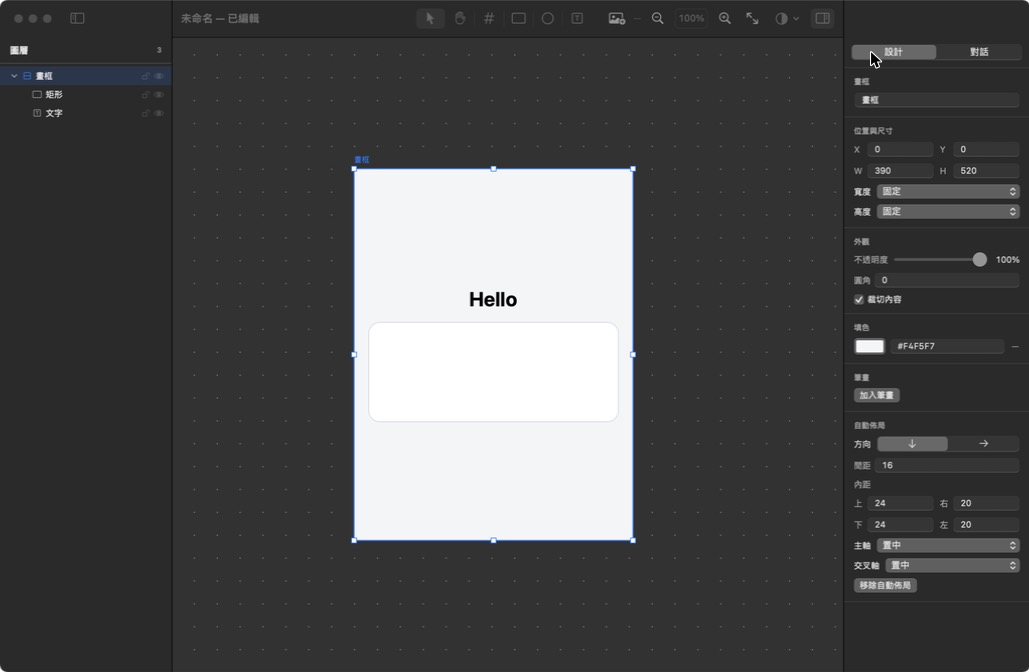
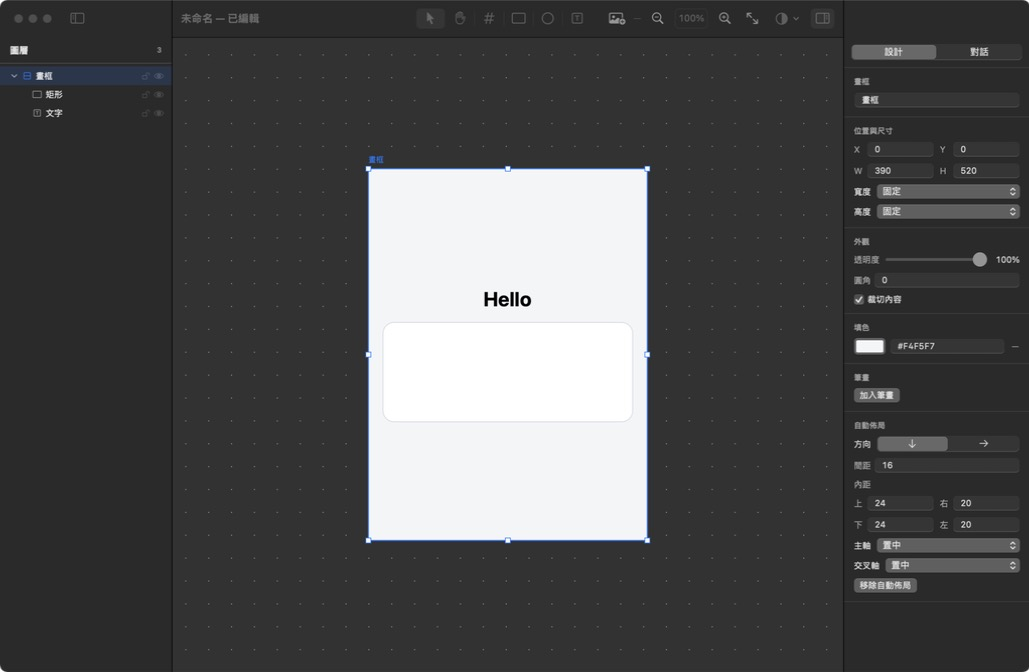
fix(i18n): 处理本地审查意见
- 应用包内不再回退到 SwiftPM 资源包，避免缺表时崩溃；空键不再越界
- AppleLanguages 写入所选语言加系统语言列表，画布文字的字体回退保持系统顺序
- 启动窗口与连接器窗口标题随语言即时更新
- 繁体中文改用连线等台湾用词，模型数量文案避免单复数问题
- 文档如实说明工程文件错误随界面语言、其余控制通道错误不本地化

diff --git a/native/Sources/AtlasCore/Localization.swift b/native/Sources/AtlasCore/Localization.swift
@@ -33,6 +33,17 @@ public enum AppLanguage: String, CaseIterable, Sendable {
     public func save(in defaults: UserDefaults) {
         defaults.set(rawValue, forKey: Self.defaultsKey)
     }
+
+    /// The app's `AppleLanguages` value: this language first, so system-provided menu items use it at the next
+    /// launch, then the user's system languages, so font fallback for text on the canvas stays as the system has it.
+    public func preferredLanguages(system: [String]) -> [String] {
+        [rawValue] + system.filter { $0 != rawValue }
+    }
+
+    /// The system-wide preferred languages, read past any per-app override.
+    public static var systemLanguages: [String] {
+        UserDefaults.standard.persistentDomain(forName: UserDefaults.globalDomain)?["AppleLanguages"] as? [String] ?? []
+    }
 }
 
 /// String tables for the UI. Keys are the US English text.
@@ -58,8 +69,12 @@ public enum L10n {
 
     /// The app bundle carries the tables in `Contents/Resources`; `swift test` reads them from the package's resource bundle.
     private static func url(_ language: AppLanguage) -> URL? {
-        Bundle.main.url(forResource: "Localizable", withExtension: "strings", subdirectory: nil, localization: language.resourceName)
-            ?? Bundle.module.url(forResource: "Localizable", withExtension: "strings", subdirectory: nil, localization: language.resourceName)
+        if let url = Bundle.main.url(forResource: "Localizable", withExtension: "strings", subdirectory: nil, localization: language.resourceName) {
+            return url
+        }
+        // The app bundle does not carry the package's resource bundle, and asking for a missing one traps.
+        guard Bundle.main.bundleURL.pathExtension != "app" else { return nil }
+        return Bundle.module.url(forResource: "Localizable", withExtension: "strings", subdirectory: nil, localization: language.resourceName)
     }
 
     /// A missing key falls back to the key itself, which is readable US English. Text after "|" in a key only
@@ -69,7 +84,7 @@ public enum L10n {
     }
 
     static func string(_ key: String, language: AppLanguage, arguments: [CVarArg]) -> String {
-        let template = table(language)[key] ?? String(key.split(separator: "|", maxSplits: 1)[0])
+        let template = table(language)[key] ?? key.components(separatedBy: "|")[0]
         return arguments.isEmpty ? template : String(format: template, arguments: arguments)
     }
 }

diff --git a/native/Tests/AtlasAppTests/StoreTests.swift b/native/Tests/AtlasAppTests/StoreTests.swift
@@ -223,13 +223,15 @@ private func temporaryFile() -> URL {
 }
 
 @Test @MainActor func languageDefaultsToUSEnglishAndPersists() {
-    let defaults = UserDefaults(suiteName: "ui-atlas-tests-\(UUID().uuidString)")!
+    let suite = "ui-atlas-tests-\(UUID().uuidString)"
+    let defaults = UserDefaults(suiteName: suite)!
     #expect(AtlasStore(defaults: defaults).language == .enUS)
     AppLanguage.zhHant.save(in: defaults)
     let store = AtlasStore(defaults: defaults)
     #expect(store.language == .zhHant)
-    // Switching back to the default keeps the process-wide language other tests rely on.
+    // Only the default language is assigned here: assigning sets the process-wide `L10n.language`, which tests running in parallel read.
     store.language = .enUS
     #expect(AppLanguage.saved(in: defaults) == .enUS && AtlasStore(defaults: defaults).language == .enUS)
-    #expect(defaults.stringArray(forKey: "AppleLanguages") == ["en-US"])
+    // Read the suite's own domain; `stringArray(forKey:)` would fall through to the system languages.
+    #expect((defaults.persistentDomain(forName: suite)?["AppleLanguages"] as? [String])?.first == "en-US")
 }

diff --git a/native/Sources/AtlasApp/AtlasApp.swift b/native/Sources/AtlasApp/AtlasApp.swift
@@ -75,13 +75,15 @@ struct AtlasApp: App {
         // system-provided menu items (About, Quit, Edit, Window) read `AppleLanguages` once at launch.
         let language = AppLanguage.saved(in: .standard)
         L10n.language = language
-        UserDefaults.standard.set([language.rawValue], forKey: "AppleLanguages")
+        UserDefaults.standard.set(language.preferredLanguages(system: AppLanguage.systemLanguages), forKey: "AppleLanguages")
     }
 
     var body: some Scene {
         // 第一个场景在启动时打开：先显示启动窗口，新建或打开后才进入编辑窗口。
         Window(L("Launch Window"), id: Self.launchWindowID) {
             LaunchView(store: store)
+                // The scene's title is not refreshed while the window is open; this one is.
+                .navigationTitle(L("Launch Window"))
                 .preferredColorScheme(store.colorScheme)
                 .environment(\.locale, store.language.locale)
                 .modifier(WindowActions(store: store, start: start))

diff --git a/native/Sources/AtlasApp/ChatPanel.swift b/native/Sources/AtlasApp/ChatPanel.swift
@@ -295,7 +295,7 @@ private struct ChatSettingsSheet: View {
                 Text(L("Could not load the model list: %@. You can still enter a model manually.", listError))
             } else if !models.isEmpty {
                 Image(systemName: "checkmark.circle").foregroundStyle(.green)
-                Text(L("%d models available; choose one from the menu next to the model field.", models.count))
+                Text(L("Available models: %d. Choose one from the menu next to the model field.", models.count))
             } else if trimmedKey.isEmpty && !hasSavedKey {
                 Text(L("Available models load automatically once you enter an API key."))
             }

diff --git a/native/Tests/AtlasCoreTests/LocalizationTests.swift b/native/Tests/AtlasCoreTests/LocalizationTests.swift
@@ -29,6 +29,11 @@ private func specifiers(_ text: String) -> [String] {
     }
 }
 
+@Test func appLanguagesPutTheChoiceFirstAndKeepTheSystemOrder() {
+    #expect(AppLanguage.zhHant.preferredLanguages(system: ["ja-JP", "zh-Hant", "en-US"]) == ["zh-Hant", "ja-JP", "en-US"])
+    #expect(AppLanguage.enUS.preferredLanguages(system: []) == ["en-US"])
+}
+
 @Test func supportsExactlyTheFourLanguages() {
     #expect(AppLanguage.allCases.map(\.rawValue) == ["en-US", "en-GB", "zh-Hans", "zh-Hant"])
     #expect(AppLanguage.allCases.map(\.displayName) == ["English (US)", "English (UK)", "简体中文", "繁體中文"])

diff --git a/native/Sources/AtlasApp/AtlasStore.swift b/native/Sources/AtlasApp/AtlasStore.swift
@@ -37,7 +37,7 @@ final class AtlasStore: ObservableObject {
             L10n.language = language
             language.save(in: defaults)
             // System-provided menu items follow this at the next launch.
-            defaults.set([language.rawValue], forKey: "AppleLanguages")
+            defaults.set(language.preferredLanguages(system: AppLanguage.systemLanguages), forKey: "AppleLanguages")
         }
     }
     let zoomIndicator = ZoomIndicator()

diff --git a/docs/macos.md b/docs/macos.md
@@ -21,7 +21,7 @@ When the App starts it first shows the launch window and starts no Node processe
 
 Once editing starts — via New, Open, a recent item, a template, opening a file from Finder, or the Agent's `new_document` / `open_document` — the editor window opens and the launch window closes; Window › Launch Window (窗口 › 启动窗口) reopens it. The editor window is not restored on quit, so the next launch shows the launch window first again. The Agent harness starts only when the chat panel sends its first message.
 
-**UI language.** The App comes in US English, British English, Simplified Chinese, and Traditional Chinese. The first launch uses US English whatever the system language is. The app menu's Language submenu switches language: every window and the App's own menu items change immediately, the choice is saved and used at the next launch, and the system-provided menu items (About, Quit, Hide, the standard Edit and Window items) change at the next launch, as the submenu notes. Switching never changes a design document: layer names stay as they are, and a new layer gets its default name in the language in use when it is created. Errors returned to Agents over the control channel are not localized.
+**UI language.** The App comes in US English, British English, Simplified Chinese, and Traditional Chinese. The first launch uses US English whatever the system language is. The app menu's Language submenu switches language: every window and the App's own menu items change immediately, the choice is saved and used at the next launch, and the system-provided menu items (About, Quit, Hide, the standard Edit and Window items) change at the next launch, as the submenu notes. Switching never changes a design document: layer names stay as they are. A layer without a name — newly created, or read from a project file that omits `name` — gets its default name in the language in use at that moment. Project-file errors (not a project file, missing or newer format version) follow the UI language wherever they are shown, including the Agent's `open_document`; the control channel's other errors (protocol, field validation, commands) are not localized.
 
 Templates live in `native/Resources/Templates/`: put a `.uiatlas` file there and rebuild, and it appears in the Templates section, named after the file, with no code changes.
 

diff --git a/CLAUDE.md b/CLAUDE.md
@@ -4,7 +4,7 @@ This file provides guidance to Claude Code (claude.ai/code) when working in this
 
 ui-atlas is a local, native macOS AI design tool: a SwiftUI + AppKit shell renders a "design document" made of layers with Core Animation on a pannable, zoomable "canvas". People and AI Agents edit the same document, and designs are saved as `.uiatlas` project files (JSON). Terminology follows `GLOSSARY.md`. Read `GLOSSARY.md` and the relevant `docs/adr/` (especially ADR 0006) before exploring the code; `docs/macos.md` is the authoritative spec for canvas interaction behavior.
 
-Language: project docs (README, CHANGELOG, `GLOSSARY.md`, `docs/`, ADRs), code comments, test descriptions, MCP tool descriptions, and error messages are in English; write any new content of these kinds in English too. App UI copy is localized into US English (the default and the source language), British English, Simplified Chinese, and Traditional Chinese: never hard-code UI copy; write `L("English text")` and add the key to all four `Localizable.strings` tables in `native/Sources/AtlasCore/Resources/`, using the term names in `GLOSSARY.md` (tests fail on a missing key or a hard-coded Chinese string). Errors returned to Agents over the control channel are not localized.
+Language: project docs (README, CHANGELOG, `GLOSSARY.md`, `docs/`, ADRs), code comments, test descriptions, MCP tool descriptions, and error messages are in English; write any new content of these kinds in English too. App UI copy is localized into US English (the default and the source language), British English, Simplified Chinese, and Traditional Chinese: never hard-code UI copy; write `L("English text")` and add the key to all four `Localizable.strings` tables in `native/Sources/AtlasCore/Resources/`, using the term names in `GLOSSARY.md` (tests fail on an `L("…")` call without a table entry, on tables whose keys differ, and on hard-coded Chinese copy in the UI source files listed in `LocalizationTests.swift` — add new UI files to that list). Control-channel protocol, field-validation, and command errors are not localized.
 
 ## Workflow: superpowers skills
 

diff --git a/CHANGELOG.md b/CHANGELOG.md
@@ -19,7 +19,6 @@ names from [GLOSSARY.md](GLOSSARY.md).
 - **The App now starts in US English.** It used to be Simplified Chinese only; choose *Language → 简体中文* to switch back (#89).
 - New layers get their default name (Frame, Rectangle, …) in the UI language at the time they are created; existing layer names are never changed (#89).
 - The confirmation shown before discarding unsaved changes no longer names the action that triggered it (#89).
-
 - The docs under `docs/` (including the ADRs, design specs, and plans), the template README, and the committed drafts in `.scratch/` are now in English; `docs/localization.md` is marked as a historical record (#81).
 - `AGENTS.md` and `GLOSSARY.md` are now in English; each glossary term leads with its English name and keeps the App's Chinese label in parentheses, and serves as the shared translation for the other English docs (#80).
 - `CHANGELOG.md` is now written in English, and future entries must be in English; `GLOSSARY.md` lists an English name for each term (#78).

diff --git a/GLOSSARY.md b/GLOSSARY.md
@@ -48,4 +48,3 @@ _Avoid_: control port (控制端口), API service (API 服务)
 **Model provider (模型提供方 / 模型提供者)**: The model API sources available in the chat panel: DeepSeek, Anthropic Claude, and OpenAI. DeepSeek uses an OpenAI-compatible API, and OpenAI uses the Responses API.
 
 **UI language (界面语言 / 介面語言)**: The language of the App's own copy, chosen in the app menu's *Language* submenu and remembered across launches. It does not follow the system language and never changes the content of a design document; a new layer's default name is written once, in the UI language at that moment.
-_Avoid_: locale (语言区域) (number and date formats are not customized)
